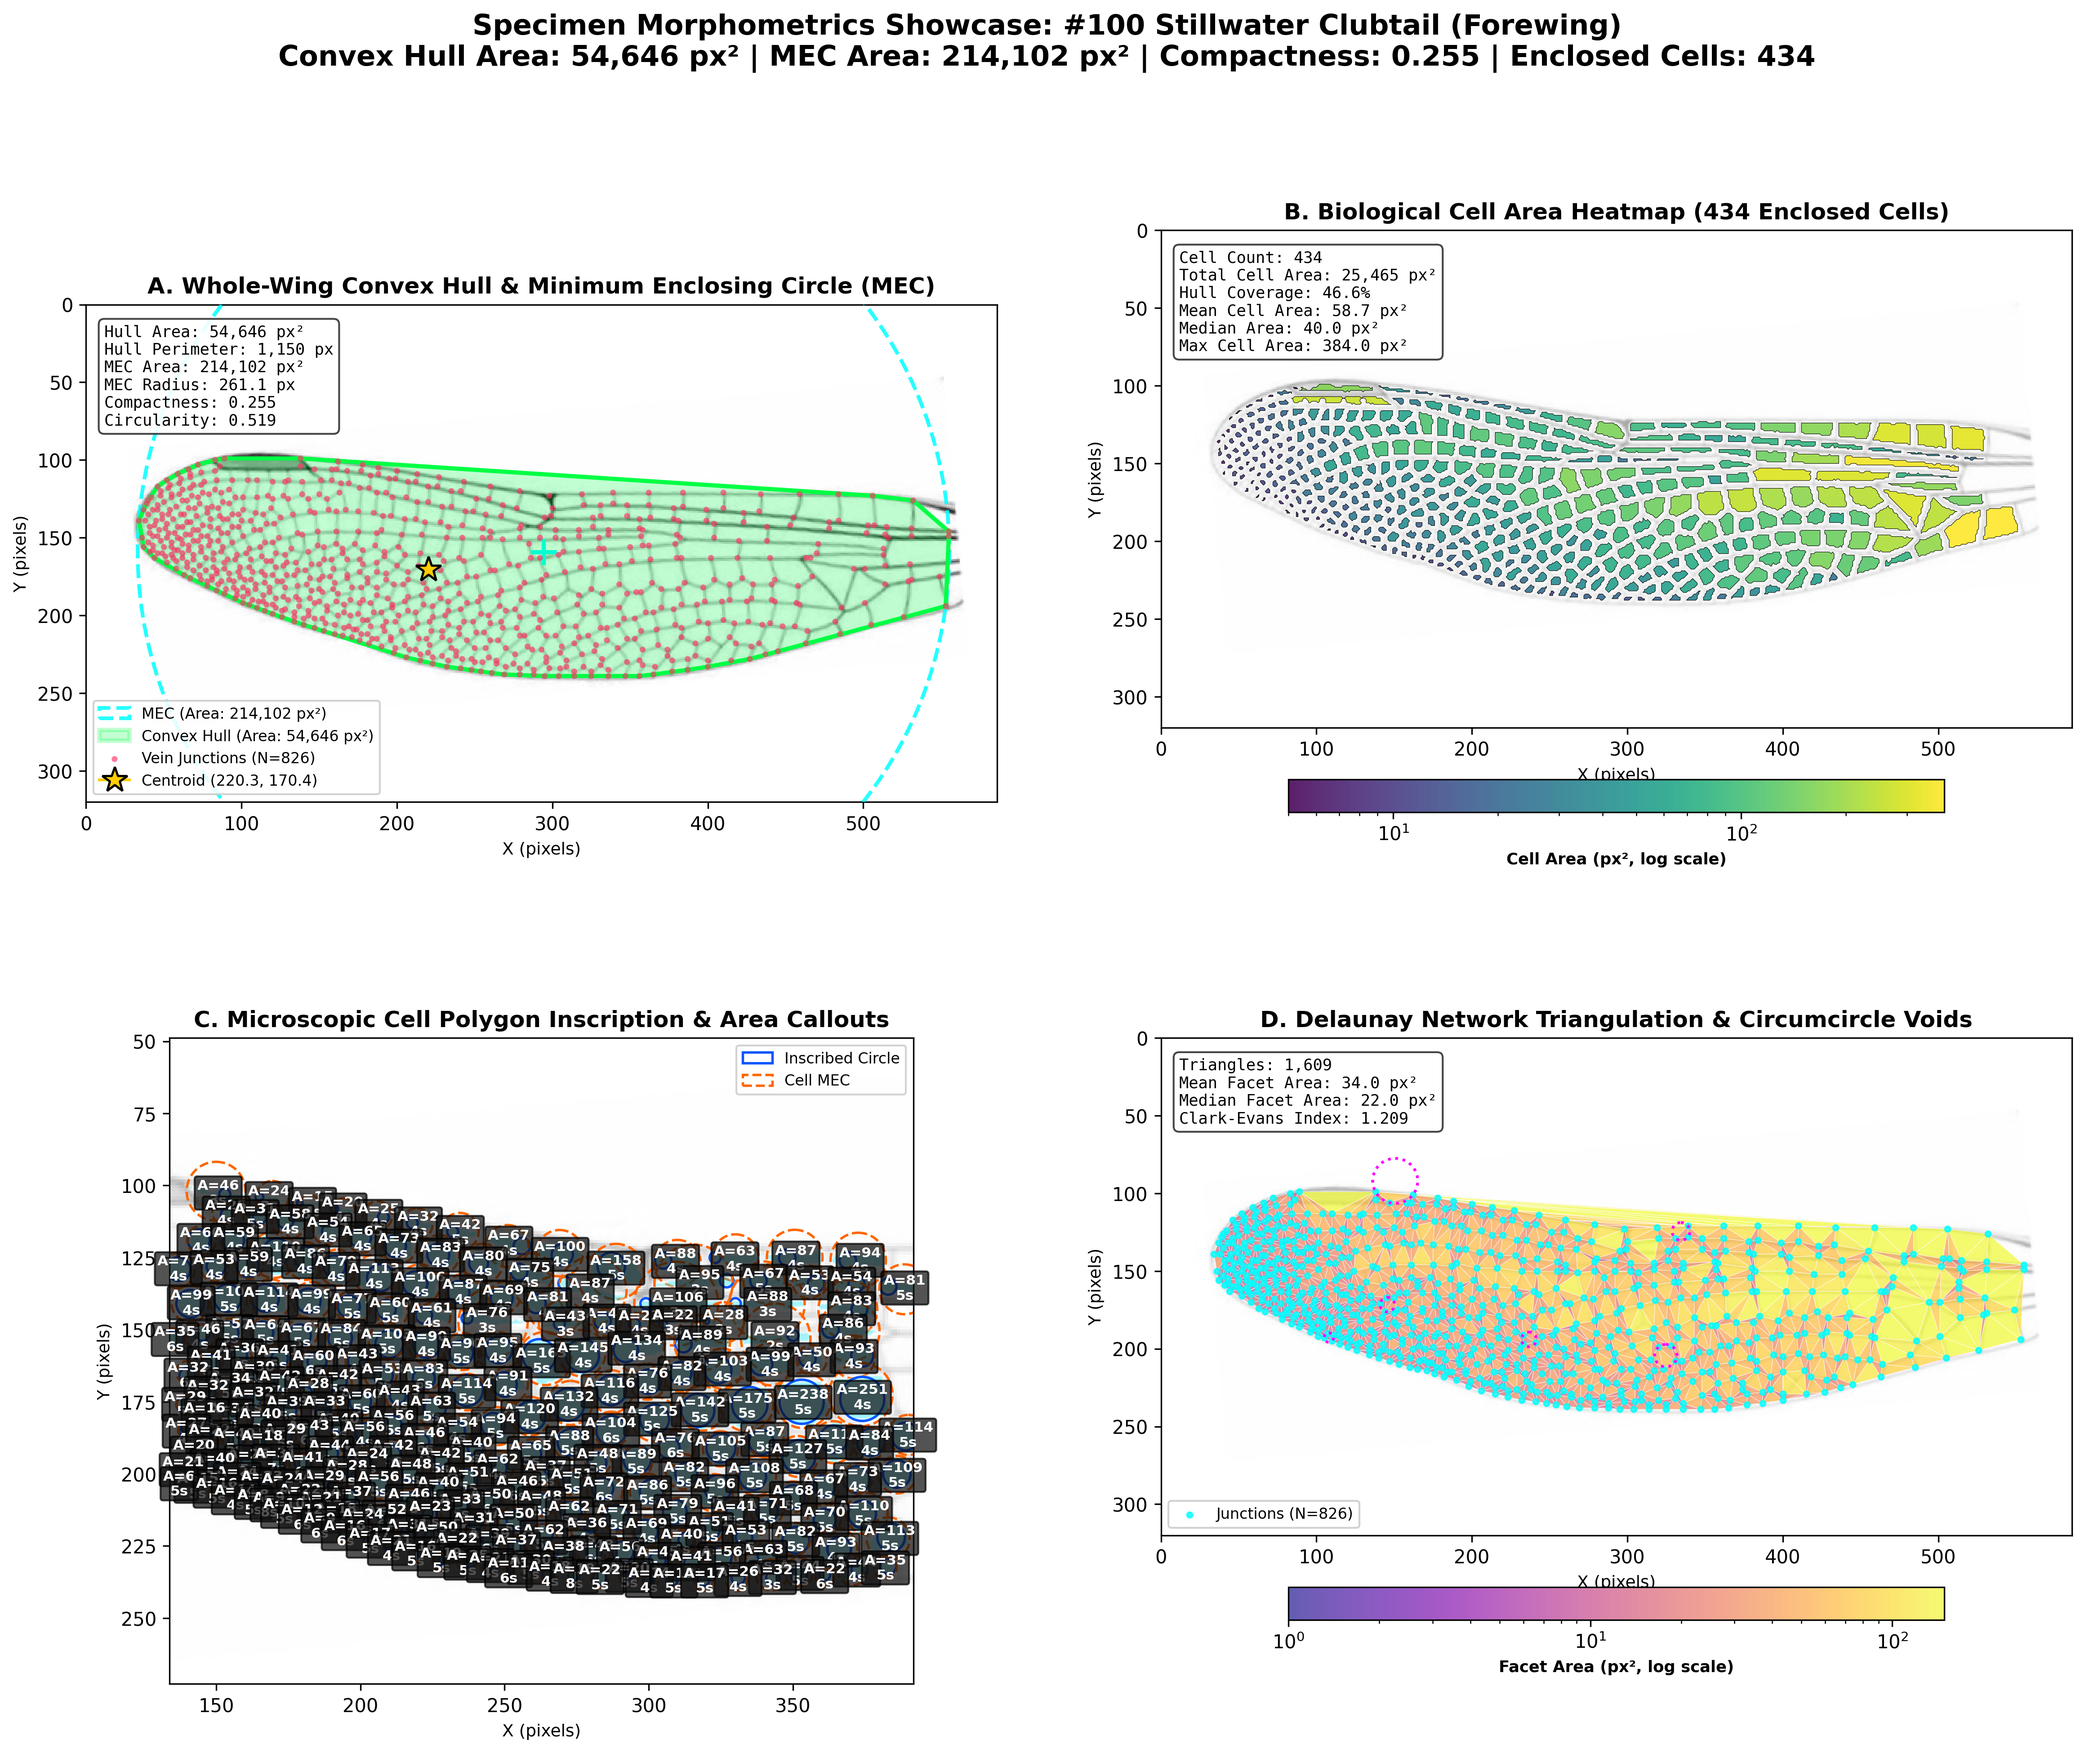
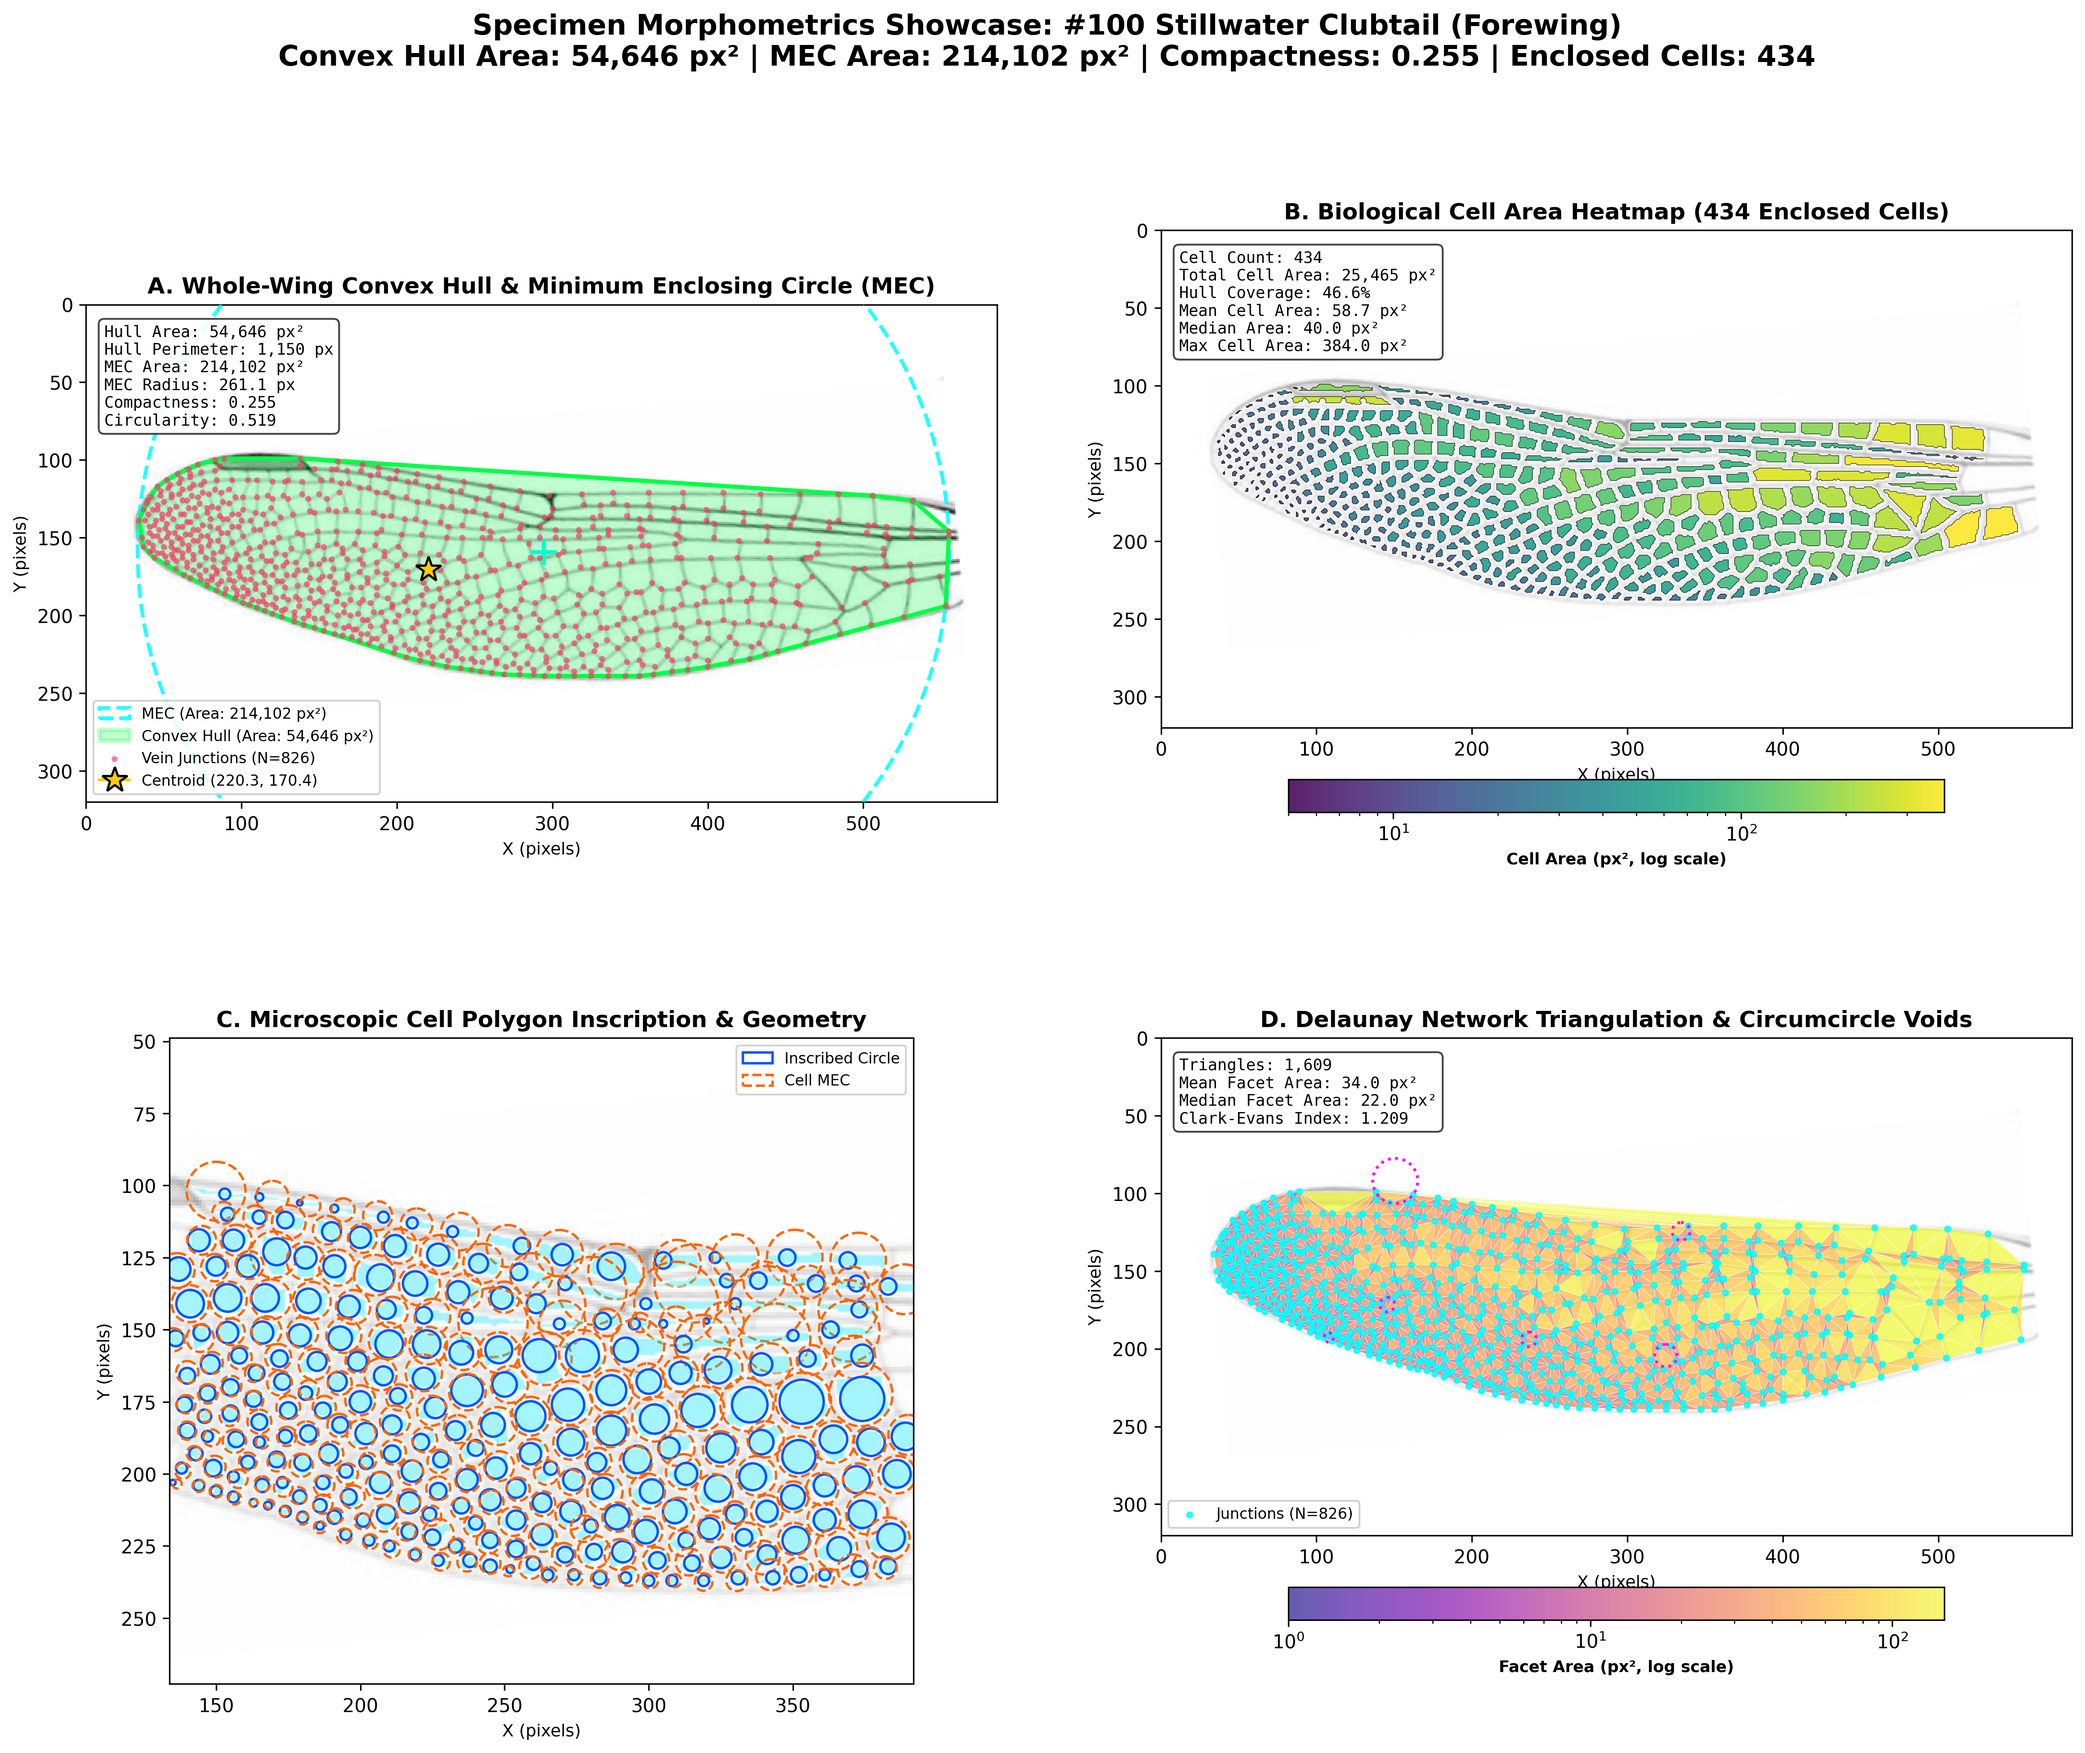
fix(plots): remove overlapping area callout text overlays while preserving legible callouts in 3.3.3; update section 2 title

Changed region(s): [[0.0621, 0.6515, 0.4657, 0.9308], [0.0931, 0.5585, 0.4347, 0.5895]]

diff --git a/src/features/plot_hull_and_area_samples.py b/src/features/plot_hull_and_area_samples.py
@@ -460,19 +460,6 @@ def plot_biological_cells_and_areas(
         )
         ax_c.add_patch(mec_c)
 
-        # Area and side text label at centroid
-        ax_c.text(
-            c["centroid"][0],
-            c["centroid"][1],
-            f"A={c['area']}\n{c['sides']}s",
-            color="#ffffff",
-            fontsize=7,
-            fontweight="bold",
-            ha="center",
-            va="center",
-            bbox=dict(boxstyle="round,pad=0.15", facecolor="#111111", edgecolor="none", alpha=0.7),
-        )
-
     ax_c.set_xlim(x1, x2)
     ax_c.set_ylim(y2, y1)
     ax_c.set_title(
@@ -928,11 +915,10 @@ def plot_master_showcase(
         ax_zoom.add_patch(Polygon(c["polygon"], closed=True, edgecolor="#ffffff", facecolor="#00e5ff", alpha=0.35, linewidth=1.4))
         ax_zoom.add_patch(Circle(c["inscribe_center"], c["inscribe_radius"], edgecolor="#0055ff", facecolor="none", lw=1.2))
         ax_zoom.add_patch(Circle(c["mec_center"], c["mec_radius"], edgecolor="#ff6600", facecolor="none", linestyle="--", lw=1.2))
-        ax_zoom.text(c["centroid"][0], c["centroid"][1], f"A={c['area']}\n{c['sides']}s", color="#ffffff", fontsize=7, fontweight="bold", ha="center", va="center", bbox=dict(boxstyle="round,pad=0.15", facecolor="#111111", alpha=0.7))
 
     ax_zoom.set_xlim(zx1, zx2)
     ax_zoom.set_ylim(zy2, zy1)
-    ax_zoom.set_title("D. Microscopic Cell Geometric Inscription & Areas", fontsize=11, fontweight="bold")
+    ax_zoom.set_title("D. Microscopic Cell Geometric Inscription & Morphology", fontsize=11, fontweight="bold")
     ax_zoom.set_xlabel("X (px)", fontsize=8)
     ax_zoom.set_ylabel("Y (px)", fontsize=8)
 
@@ -985,6 +971,7 @@ def plot_single_wing_showcase(
     seeds_dir: Path,
     csv_path: Path,
     output_path: Path,
+    include_callouts: bool = True,
 ):
     """
     Generates a dedicated, publication-grade 4-panel specimen showcase:
@@ -1221,23 +1208,29 @@ def plot_single_wing_showcase(
             ax_c.add_patch(Polygon(c["polygon"], closed=True, edgecolor="#ffffff", facecolor="#00e5ff", alpha=0.35, linewidth=1.4))
             ax_c.add_patch(Circle(c["inscribe_center"], c["inscribe_radius"], edgecolor="#0055ff", facecolor="none", lw=1.3, label="Inscribed Circle" if c == zcells[0] else ""))
             ax_c.add_patch(Circle(c["mec_center"], c["mec_radius"], edgecolor="#ff6600", facecolor="none", linestyle="--", lw=1.3, label="Cell MEC" if c == zcells[0] else ""))
-            ax_c.text(
-                c["centroid"][0],
-                c["centroid"][1],
-                f"A={c['area']}\n{c['sides']}s",
-                color="#ffffff",
-                fontsize=7.5,
-                fontweight="bold",
-                ha="center",
-                va="center",
-                bbox=dict(boxstyle="round,pad=0.18", facecolor="#111111", alpha=0.72),
-            )
+            if include_callouts:
+                ax_c.text(
+                    c["centroid"][0],
+                    c["centroid"][1],
+                    f"A={c['area']}\n{c['sides']}s",
+                    color="#ffffff",
+                    fontsize=7.5,
+                    fontweight="bold",
+                    ha="center",
+                    va="center",
+                    bbox=dict(boxstyle="round,pad=0.18", facecolor="#111111", alpha=0.72),
+                )
 
         ax_c.set_xlim(zx1, zx2)
         ax_c.set_ylim(zy2, zy1)
         ax_c.legend(loc="upper right", fontsize=8, framealpha=0.85)
 
-    ax_c.set_title("C. Microscopic Cell Polygon Inscription & Area Callouts", fontsize=12, fontweight="bold", pad=6)
+    c_title = (
+        "C. Microscopic Cell Polygon Inscription & Area Callouts"
+        if include_callouts
+        else "C. Microscopic Cell Polygon Inscription & Geometry"
+    )
+    ax_c.set_title(c_title, fontsize=12, fontweight="bold", pad=6)
     ax_c.set_xlabel("X (pixels)", fontsize=9)
     ax_c.set_ylabel("Y (pixels)", fontsize=9)
 
@@ -1376,6 +1369,7 @@ def main():
         seeds_dir=args.seeds_dir,
         csv_path=args.csv_path,
         output_path=args.output_dir / "06_single_wing_showcase_100_stillwater_clubtail_forewing.png",
+        include_callouts=False,
     )
 
     print("Generating Figure 7: Single-Wing Deep-Dive Showcase (Hyacinth Glider Hindwing)...")
@@ -1385,6 +1379,7 @@ def main():
         seeds_dir=args.seeds_dir,
         csv_path=args.csv_path,
         output_path=args.output_dir / "07_single_wing_showcase_385_hyacinth_glider_hindwing.png",
+        include_callouts=True,
     )
 
     print("\nAll morphometric and hull visualization figures generated successfully!")

diff --git a/README.md b/README.md
@@ -24,7 +24,7 @@ The junction nodes of this venation network—where structural longitudinal vein
 
 ---
 
-## 2. What the Project Is Now: Final Scope & Deliverables
+## 2. Project Scope & Core Deliverables
 
 OdonataNet provides an end-to-end computational framework and curated benchmark for deep learning-driven landmark discovery, omnidirectional topological extraction, and high-throughput geometric morphometrics across dragonfly wings.
 
@@ -156,7 +156,7 @@ This 6-specimen comparative gallery demonstrates the robustness of the geometric
 A comprehensive 4-quadrant anatomical decomposition of specimen `#100` (*Stillwater Clubtail Forewing*):
 - **Panel A (Top-Left)**: Convex Hull & MEC overlay ($A_{\text{hull}} = 54,646\text{ px}^2$, $A_{\text{mec}} = 214,102\text{ px}^2$, compactness $= 0.255$, circularity $= 0.519$, 826 junctions).
 - **Panel B (Top-Right)**: Biological Cell Area Choropleth Heatmap (436 enclosed compartments, total cell area $= 25,506\text{ px}^2$, covering $46.7\%$ of the hull area, with a median cell area of $40.0\text{ px}^2$).
-- **Panel C (Bottom-Left)**: Microscopic Cell Boundary & Circle Inscription Zoom-In. Highlights individual cell areas, polygon side counts (dominance of 4- and 5-sided cells), and maximum inscribed circles (mean radius: $2.93\text{ px}$).
+- **Panel C (Bottom-Left)**: Microscopic Cell Boundary & Circle Inscription Zoom-In. Highlights polygon side counts (dominance of 4- and 5-sided cells) and maximum inscribed circles (mean radius: $2.93\text{ px}$).
 - **Panel D (Bottom-Right)**: Delaunay Network Triangulation & Circumcircle Voids (1,609 triangular facets, mean facet area $= 34.0\text{ px}^2$, Clark-Evans index $R = 1.209$).
 
 ---
